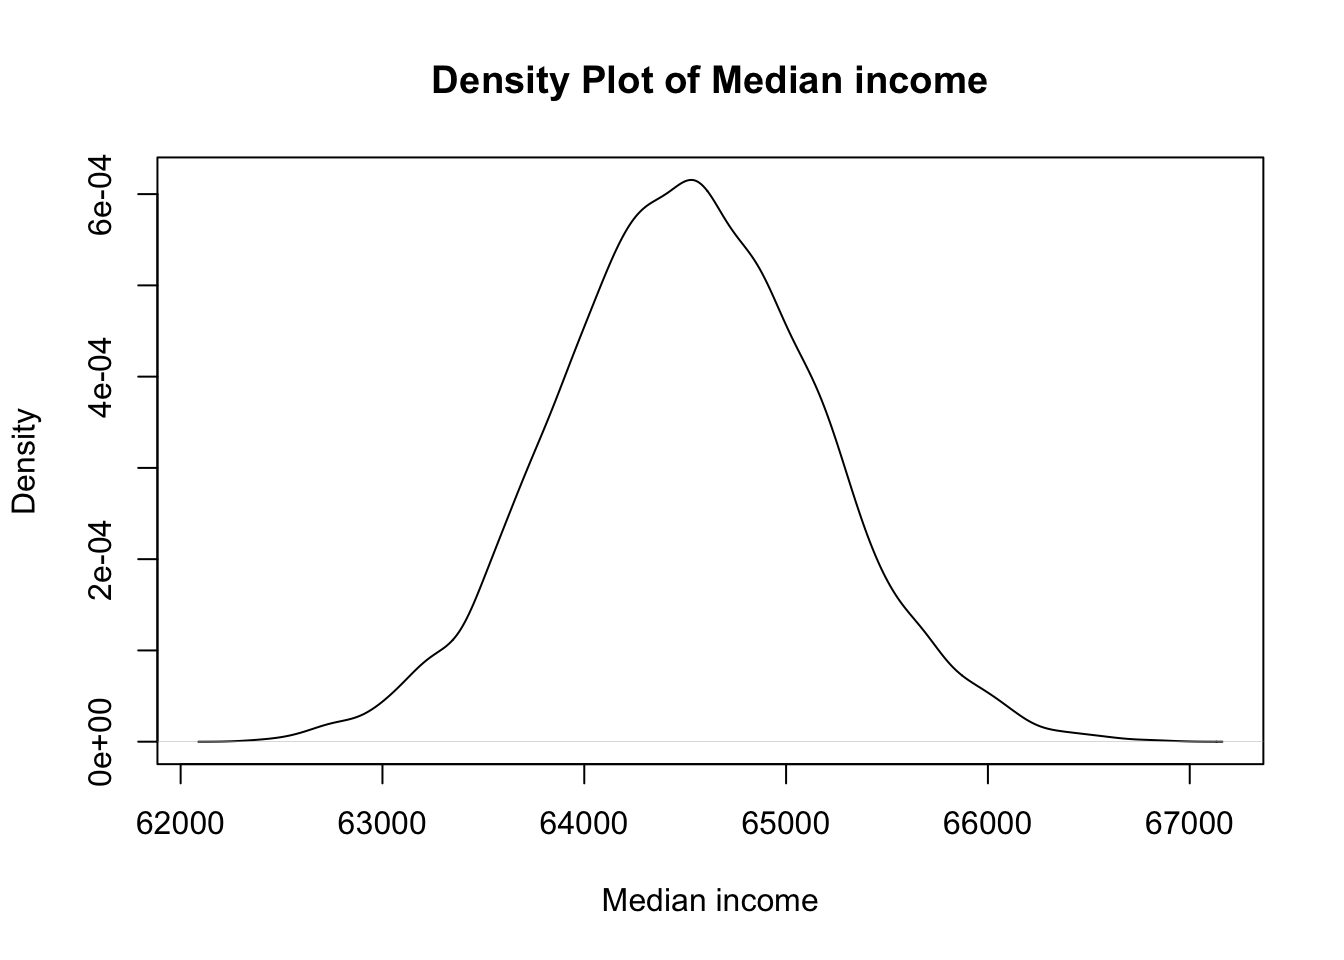
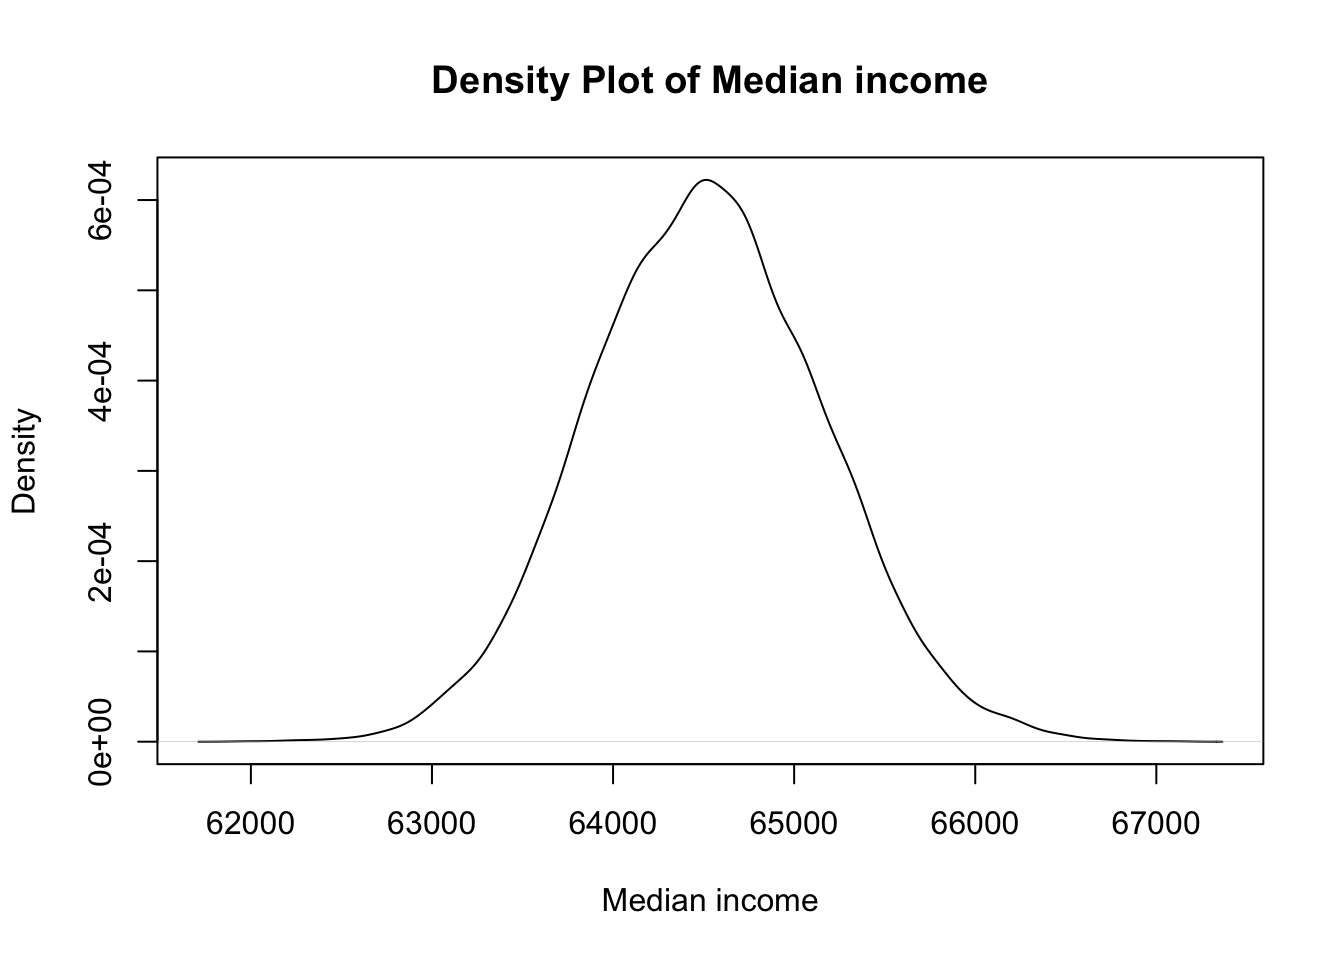
2811242

diff --git a/docs/posts/montecarlo.html b/docs/posts/montecarlo.html
@@ -1972,7 +1972,7 @@ Income distribution is not normal
 </details>
 <div class="cell-output cell-output-stdout">
 <pre><code>     Min.   1st Qu.    Median      Mean   3rd Qu.      Max. 
-2.045e+05 2.949e+05 3.419e+05 9.752e+05 4.353e+05 2.427e+09 </code></pre>
+   215642    296859    345575    739794    442185 612756769 </code></pre>
 </div>
 <details open="" class="code-fold">
 <summary>Code</summary>
@@ -1980,7 +1980,7 @@ Income distribution is not normal
 </details>
 <div class="cell-output cell-output-stdout">
 <pre><code>   Min. 1st Qu.  Median    Mean 3rd Qu.    Max. 
-  62366   64074   64507   64510   64945   66884 </code></pre>
+  61986   64072   64507   64513   64952   67089 </code></pre>
 </div>
 <details open="" class="code-fold">
 <summary>Code</summary>
@@ -1988,7 +1988,7 @@ Income distribution is not normal
 </details>
 <div class="cell-output cell-output-stdout">
 <pre><code>     Min.   1st Qu.    Median      Mean   3rd Qu.      Max. 
-9.218e+05 3.263e+06 5.579e+06 6.827e+07 1.185e+07 2.427e+11 </code></pre>
+8.644e+05 3.333e+06 5.723e+06 4.453e+07 1.234e+07 6.124e+10 </code></pre>
 </div>
 </div>
 </section>

diff --git a/docs/Biomedical/Research Methodology/wrangling.html b/docs/Biomedical/Research Methodology/wrangling.html
@@ -3267,11 +3267,11 @@ Record
 <div class="cell-output cell-output-stdout">
 <pre><code>     age   sex  class
    &lt;int&gt; &lt;int&gt; &lt;fctr&gt;
-1:     1     1  child
-2:     2     1  child
-3:     3     1  child
-4:     4     1  child
-5:     5     1  child
+1:     1     0  child
+2:     2     0  child
+3:     3     0  child
+4:     4     0  child
+5:     5     0  child
 6:     6     1  child</code></pre>
 </div>
 </div>
@@ -3290,11 +3290,11 @@ Record
 <pre><code>Key: &lt;age&gt;
      age      0      1
    &lt;int&gt; &lt;fctr&gt; &lt;fctr&gt;
-1:     1   &lt;NA&gt;  child
-2:     2   &lt;NA&gt;  child
-3:     3   &lt;NA&gt;  child
-4:     4   &lt;NA&gt;  child
-5:     5   &lt;NA&gt;  child
+1:     1  child   &lt;NA&gt;
+2:     2  child   &lt;NA&gt;
+3:     3  child   &lt;NA&gt;
+4:     4  child   &lt;NA&gt;
+5:     5  child   &lt;NA&gt;
 6:     6   &lt;NA&gt;  child</code></pre>
 </div>
 </div>

diff --git a/Education technology/skillpresent-speaker.html b/Education technology/skillpresent-speaker.html
@@ -578,8 +578,9 @@
 <p>The Cat: Then it doesn’t much matter which way you go.&nbsp;&nbsp;&nbsp;</p>
 <p>Alice: …So long as I get somewhere.</p>
 <p>The Cat: Oh, you’re sure to do that, if only you walk long enough.”</p>
-<p><strong>Doing the right thing is more valuable than doing things SOMEHOW</strong></p>
+<p><strong>Doing the right thing is more valuable than getting things done SOMEHOW</strong></p>
 </blockquote>
+<p><a href="https://www.knotes.co.in">Back to knotes</a></p>
 
 <div class="quarto-auto-generated-content">
 <p><img src="images/tie-01.png" class="slide-logo"></p>

diff --git a/docs/Education technology/skillpresent.html b/docs/Education technology/skillpresent.html
@@ -578,8 +578,9 @@
 <p>The Cat: Then it doesn’t much matter which way you go.&nbsp;&nbsp;&nbsp;</p>
 <p>Alice: …So long as I get somewhere.</p>
 <p>The Cat: Oh, you’re sure to do that, if only you walk long enough.”</p>
-<p><strong>Doing the right thing is more valuable than doing things SOMEHOW</strong></p>
+<p><strong>Doing the right thing is more valuable than getting things done SOMEHOW</strong></p>
 </blockquote>
+<p><a href="https://www.knotes.co.in">Back to knotes</a></p>
 
 <div class="quarto-auto-generated-content">
 <p><img src="images/tie-01.png" class="slide-logo"></p>

diff --git a/docs/Revision notes/Diagrams/action.html b/docs/Revision notes/Diagrams/action.html
@@ -2215,7 +2215,7 @@ window.document.addEventListener("DOMContentLoaded", function (event) {
 </div>
   </div>
 </footer>
-<script>var lightboxQuarto = GLightbox({"loop":false,"descPosition":"bottom","openEffect":"zoom","closeEffect":"zoom","selector":".lightbox"});
+<script>var lightboxQuarto = GLightbox({"selector":".lightbox","closeEffect":"zoom","loop":false,"openEffect":"zoom","descPosition":"bottom"});
 (function() {
   let previousOnload = window.onload;
   window.onload = () => {

diff --git a/docs/Revision notes/Diagrams/artcart.html b/docs/Revision notes/Diagrams/artcart.html
@@ -2206,7 +2206,7 @@ window.document.addEventListener("DOMContentLoaded", function (event) {
 </div>
   </div>
 </footer>
-<script>var lightboxQuarto = GLightbox({"selector":".lightbox","closeEffect":"zoom","descPosition":"bottom","openEffect":"zoom","loop":false});
+<script>var lightboxQuarto = GLightbox({"selector":".lightbox","loop":false,"closeEffect":"zoom","descPosition":"bottom","openEffect":"zoom"});
 (function() {
   let previousOnload = window.onload;
   window.onload = () => {

diff --git a/docs/Revision notes/Diagrams/cemnt.html b/docs/Revision notes/Diagrams/cemnt.html
@@ -2206,7 +2206,7 @@ window.document.addEventListener("DOMContentLoaded", function (event) {
 </div>
   </div>
 </footer>
-<script>var lightboxQuarto = GLightbox({"loop":false,"openEffect":"zoom","closeEffect":"zoom","descPosition":"bottom","selector":".lightbox"});
+<script>var lightboxQuarto = GLightbox({"selector":".lightbox","closeEffect":"zoom","loop":false,"descPosition":"bottom","openEffect":"zoom"});
 (function() {
   let previousOnload = window.onload;
   window.onload = () => {

diff --git a/docs/Revision notes/Diagrams/ct.html b/docs/Revision notes/Diagrams/ct.html
@@ -2216,7 +2216,7 @@ window.document.addEventListener("DOMContentLoaded", function (event) {
 </div>
   </div>
 </footer>
-<script>var lightboxQuarto = GLightbox({"selector":".lightbox","openEffect":"zoom","descPosition":"bottom","closeEffect":"zoom","loop":false});
+<script>var lightboxQuarto = GLightbox({"openEffect":"zoom","loop":false,"closeEffect":"zoom","descPosition":"bottom","selector":".lightbox"});
 (function() {
   let previousOnload = window.onload;
   window.onload = () => {

diff --git a/docs/Revision notes/Diagrams/fmrbld.html b/docs/Revision notes/Diagrams/fmrbld.html
@@ -2215,7 +2215,7 @@ window.document.addEventListener("DOMContentLoaded", function (event) {
 </div>
   </div>
 </footer>
-<script>var lightboxQuarto = GLightbox({"closeEffect":"zoom","selector":".lightbox","openEffect":"zoom","loop":false,"descPosition":"bottom"});
+<script>var lightboxQuarto = GLightbox({"closeEffect":"zoom","loop":false,"descPosition":"bottom","selector":".lightbox","openEffect":"zoom"});
 (function() {
   let previousOnload = window.onload;
   window.onload = () => {

diff --git a/docs/Revision notes/Diagrams/motion.html b/docs/Revision notes/Diagrams/motion.html
@@ -2206,7 +2206,7 @@ window.document.addEventListener("DOMContentLoaded", function (event) {
 </div>
   </div>
 </footer>
-<script>var lightboxQuarto = GLightbox({"openEffect":"zoom","closeEffect":"zoom","descPosition":"bottom","selector":".lightbox","loop":false});
+<script>var lightboxQuarto = GLightbox({"openEffect":"zoom","loop":false,"selector":".lightbox","descPosition":"bottom","closeEffect":"zoom"});
 (function() {
   let previousOnload = window.onload;
   window.onload = () => {

diff --git a/docs/Revision notes/Diagrams/nerve.html b/docs/Revision notes/Diagrams/nerve.html
@@ -2206,7 +2206,7 @@ window.document.addEventListener("DOMContentLoaded", function (event) {
 </div>
   </div>
 </footer>
-<script>var lightboxQuarto = GLightbox({"closeEffect":"zoom","selector":".lightbox","descPosition":"bottom","openEffect":"zoom","loop":false});
+<script>var lightboxQuarto = GLightbox({"loop":false,"selector":".lightbox","closeEffect":"zoom","descPosition":"bottom","openEffect":"zoom"});
 (function() {
   let previousOnload = window.onload;
   window.onload = () => {

diff --git a/docs/Revision notes/Diagrams/plxs.html b/docs/Revision notes/Diagrams/plxs.html
@@ -2206,7 +2206,7 @@ window.document.addEventListener("DOMContentLoaded", function (event) {
 </div>
   </div>
 </footer>
-<script>var lightboxQuarto = GLightbox({"closeEffect":"zoom","loop":false,"selector":".lightbox","openEffect":"zoom","descPosition":"bottom"});
+<script>var lightboxQuarto = GLightbox({"loop":false,"openEffect":"zoom","selector":".lightbox","closeEffect":"zoom","descPosition":"bottom"});
 (function() {
   let previousOnload = window.onload;
   window.onload = () => {
